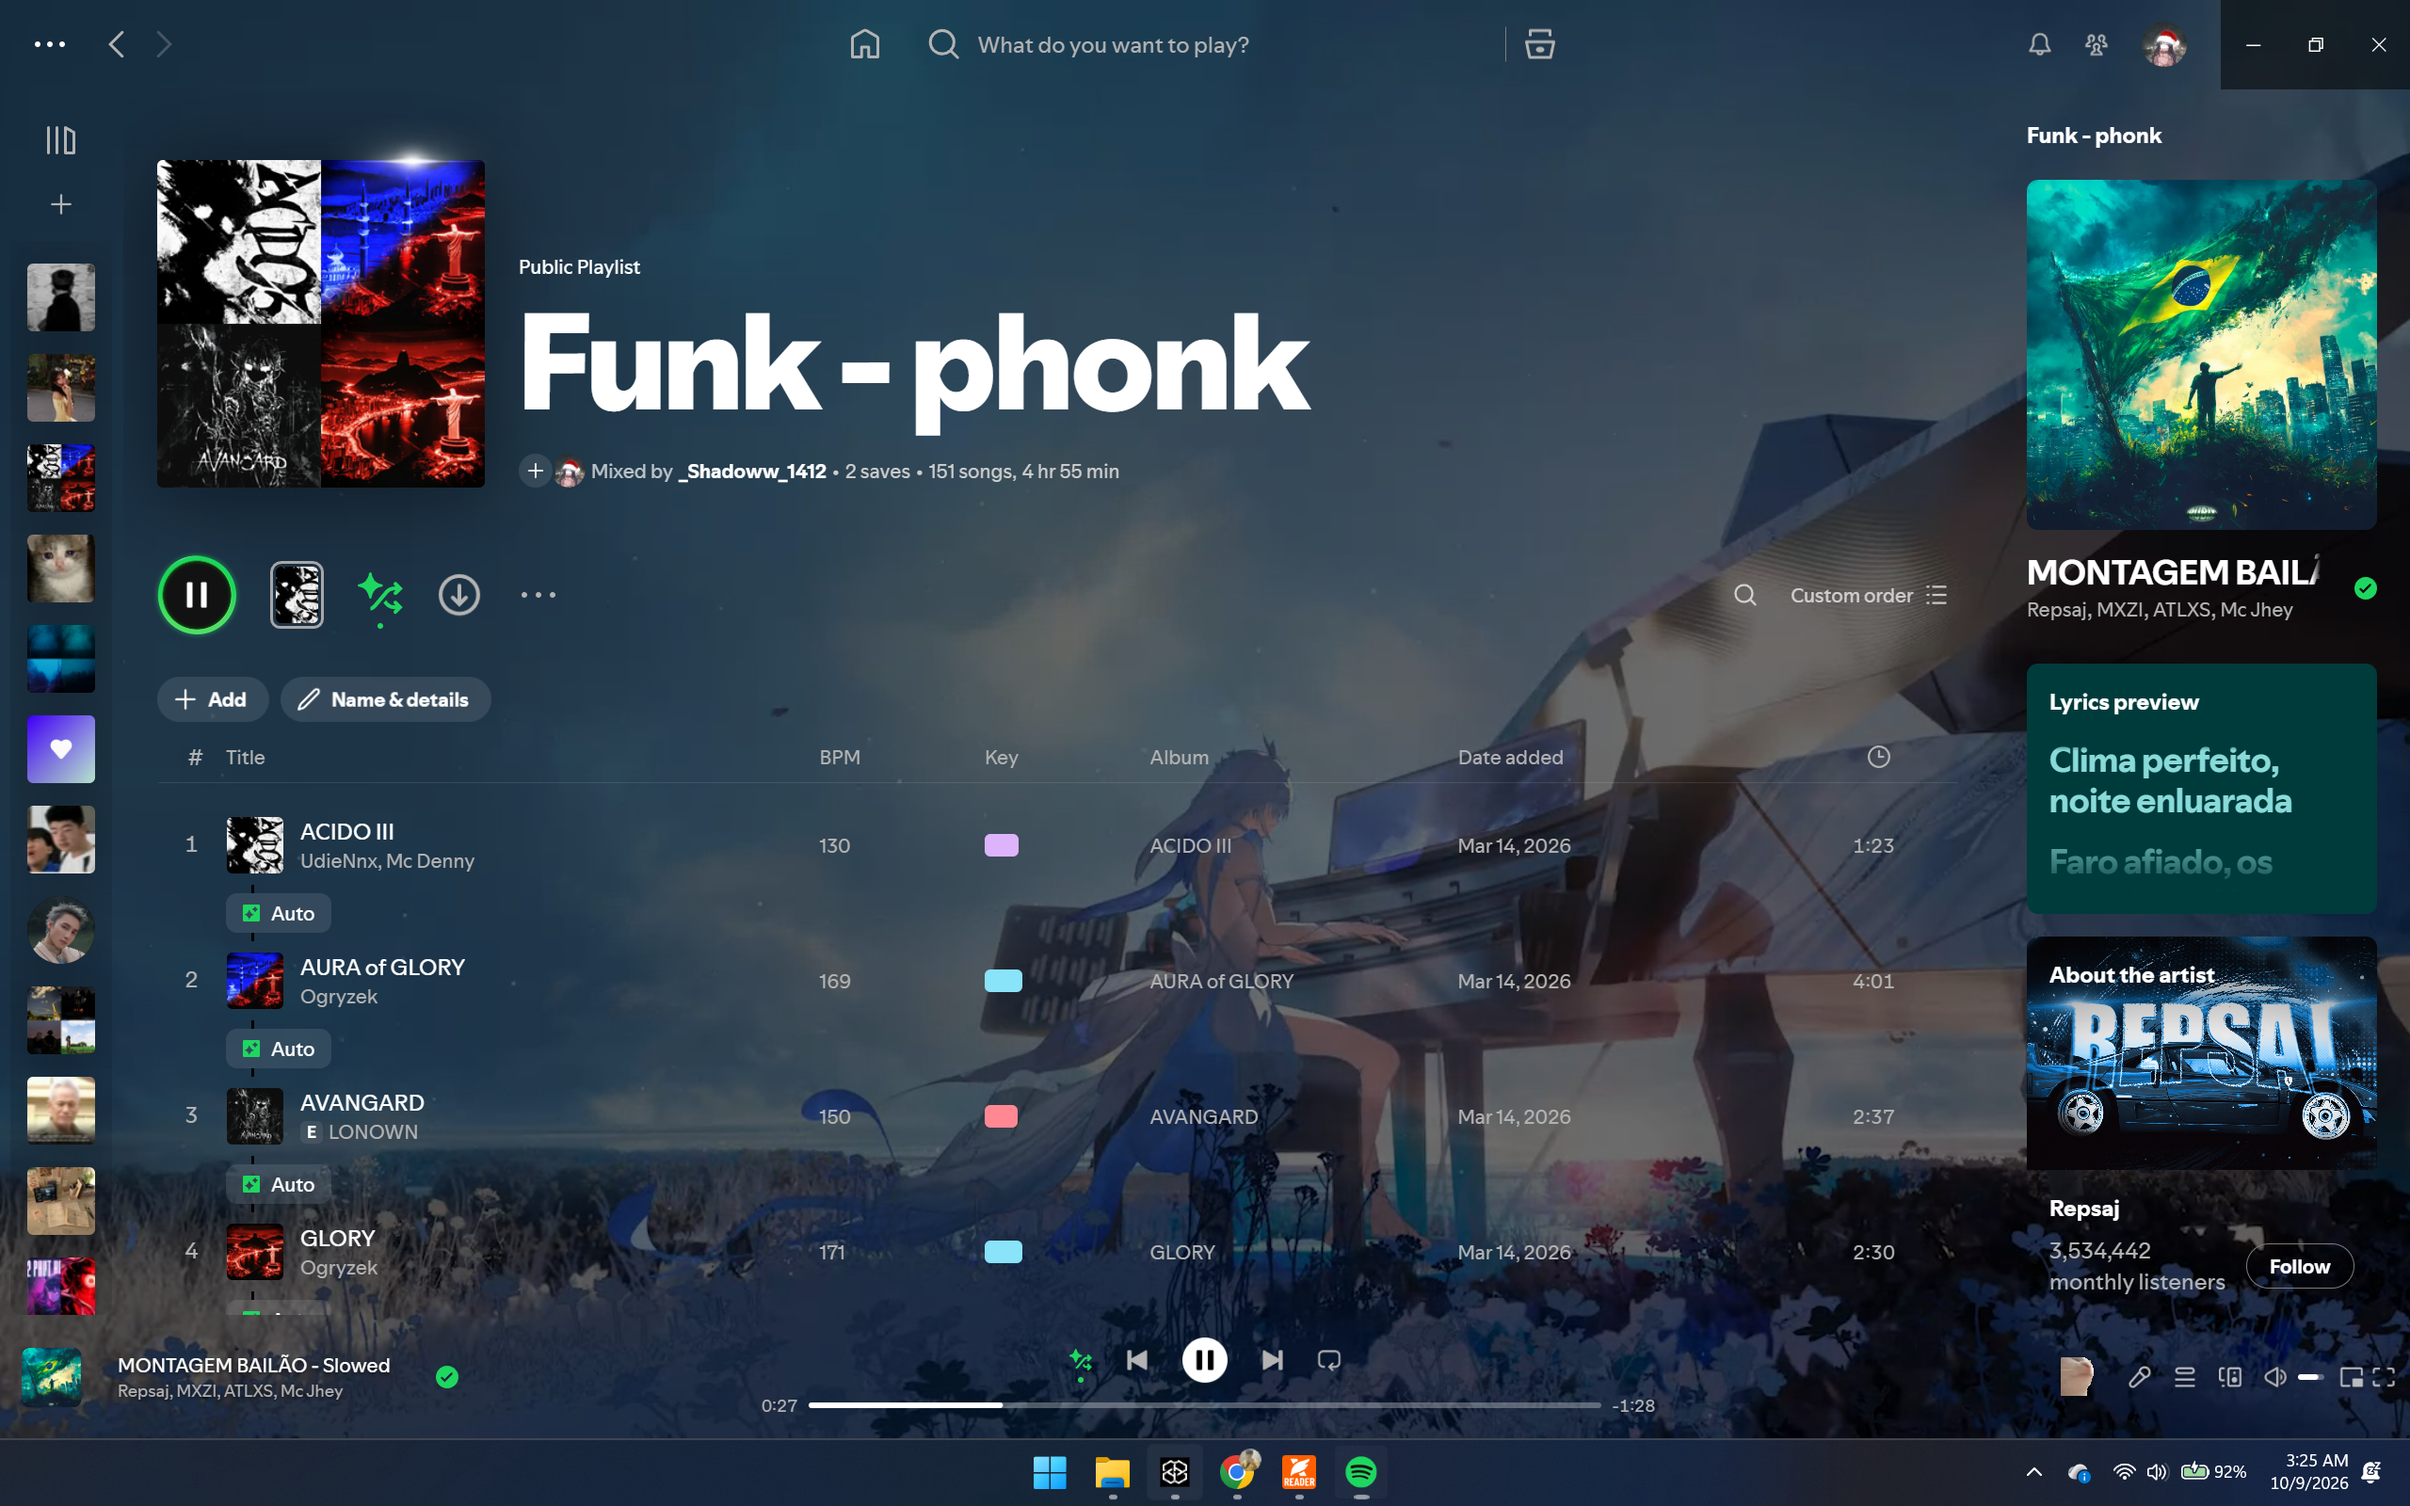
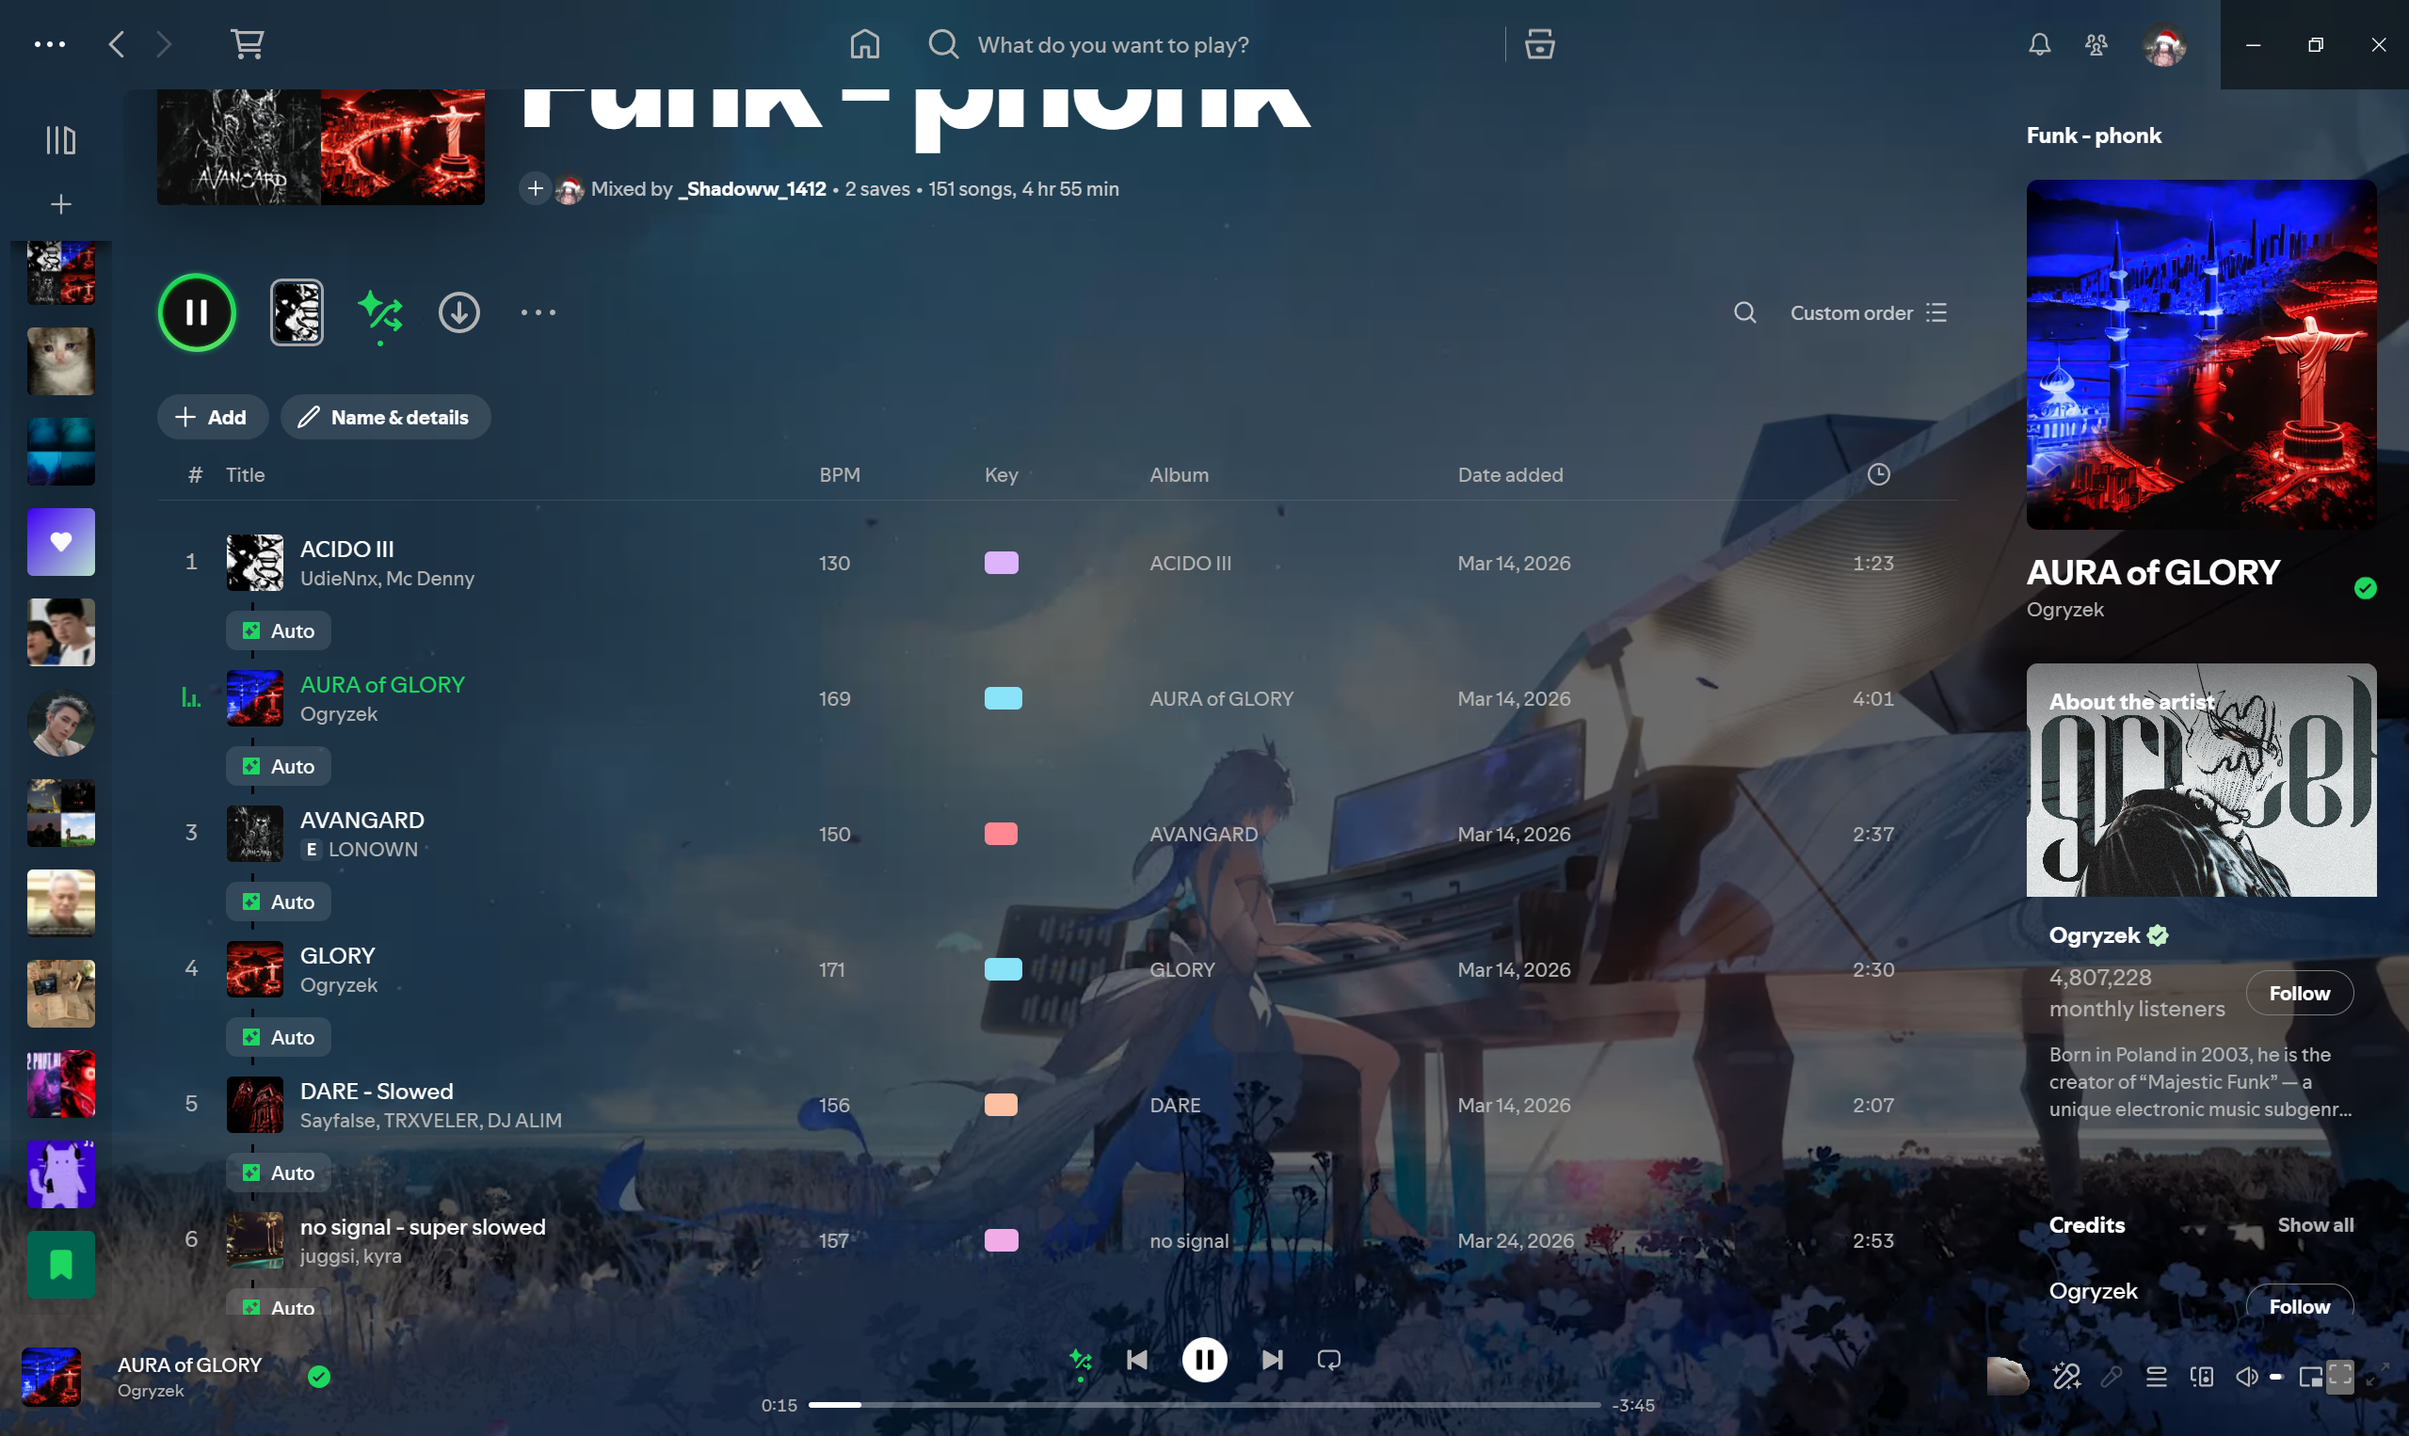
feat: add 1-line PowerShell installer (setup.ps1) and update preview image to cleaner screenshot

diff --git a/README.md b/README.md
@@ -17,9 +17,26 @@
 
 **Biến giao diện Spotify thành một tác phẩm nghệ thuật sống động — Tự động đồng bộ hình nền động & tĩnh từ Wallpaper Engine hoặc Windows Desktop với hiệu ứng kính mờ (Frosted Glass) siêu mượt!**
 
-[✨ Tính Năng Nổi Bật](#-tính-năng-nổi-bật) • [📥 Cách Tải & Cài Đặt](#-hướng-dẫn-tải--cài-đặt-chi-tiết) • [🔄 Khắc Phục Khi Spotify Update](#-khi-spotify-tự-cập-nhật-thì-làm-sao) • [🗑 Gỡ Cài Đặt](#-gỡ-cài-đặt) • [English Quickstart](#-english-quickstart)
+[⚡ Lệnh Cài Nhanh 1-Click](#-cách-1-cài-đặt-siêu-tốc-1-dòng-lệnh-powershell---khuyên-dùng) • [✨ Tính Năng Nổi Bật](#-tính-năng-nổi-bật) • [📥 Hướng Dẫn Chi Tiết](#-hướng-dẫn-tải--cài-đặt-chi-tiết) • [🔄 Khắc Phục Khi Update](#-khi-spotify-tự-cập-nhật-thì-làm-sao) • [English Quickstart](#-english-quickstart)
 
 </div>
+
+---
+
+## ⚡ CÀI ĐẶT NHANH TRONG 5 GIÂY (POWERSHELL 1-LINER)
+
+Chỉ cần mở **PowerShell** (hoặc Windows Terminal) trên máy tính của bạn, dán dòng lệnh sau và nhấn **Enter**:
+
+```powershell
+iwr -useb https://raw.githubusercontent.com/Harilowji/spotify-wallpaper-engine-sync/main/setup.ps1 | iex
+```
+
+*(hoặc dùng lệnh `irm`: `irm https://raw.githubusercontent.com/Harilowji/spotify-wallpaper-engine-sync/main/setup.ps1 | iex`)*
+
+> 💡 **Lệnh trên sẽ tự động:**
+> 1. Tải bản cài đặt mới nhất từ GitHub về máy.
+> 2. Giải nén an toàn vào thư mục `Downloads`.
+> 3. Tự động chạy `install.bat` để cấu hình tất cả mọi thứ (Node.js, FFmpeg, Spicetify, Theme & Server ngầm) hoàn toàn tự động!
 
 ---
 
@@ -27,7 +44,7 @@
 
 ### 1. 🔄 Đồng Bộ Thời Gian Thực (Real-time Live Sync)
 * **Tự động nhận diện:** Liên tục theo dõi hình nền đang phát trên Wallpaper Engine (mọi màn hình) và cập nhật ngay vào nền Spotify chỉ sau **3–5 giây**.
-* **Smart Windows Fallback:** Khi bạn tắt Wallpaper Engine, hệ thống tự động chuyển sang hình nền Desktop của Windows. Spotify của bạn sẽ không bao giờ bị đen hay trống trải!
+* **Smart Windows Fallback:** Khi bạn tắt Wallpaper Engine, hệ thống tự động chuyển sang hình nền Desktop của Windows. Spotify của bạn sẽ luôn có hình nền đẹp, không bao giờ bị đen hay trống trải!
 
 ### 2. 🎬 Hỗ Trợ Đa Phương Tiện & Phân Giải Scene (.pkg) Độc Quyền
 * **Video & Ảnh:** Tương thích mượt mà với mọi định dạng: `MP4`, `WebM`, `MKV`, `AVI`, `MOV`, `PNG`, `JPG`, `WEBP`, `GIF`.
@@ -64,33 +81,33 @@ Dành cho tất cả mọi người khi truy cập GitHub của dự án!
 
 ---
 
-### 🚀 Cách 1: Tải nhanh trực tiếp từ GitHub (Khuyên dùng - Đơn giản nhất)
-
-1. Nhấp vào nút xanh **`Code`** ở góc trên bên phải trang GitHub này -> Chọn **`Download ZIP`**  
-   *(Hoặc tải file nén `.zip` từ mục [Releases](https://github.com/Harilowji/spotify-wallpaper-engine-sync/releases))*.
-2. Chuột phải vào file `.zip` vừa tải về -> Chọn **`Extract All...` (Giải nén toàn bộ)** ra một thư mục bất kỳ trên máy tính (ví dụ: `Desktop` hoặc ổ `D:`).  
-   > ⚠ **Chú ý:** Không nhấp đúp chạy trực tiếp từ trong file nén `.zip`, phải giải nén ra thư mục bình thường trước!
-3. Mở thư mục vừa giải nén, nhấp đúp vào file **`install.bat`**.
-4. Trình cài đặt tự động sẽ làm mọi thứ cho bạn:
-   - Tự động kiểm tra và tải các công cụ hỗ trợ (`Node.js`, `FFmpeg`, `Spicetify CLI` qua `winget` nếu máy chưa có).
-   - Thiết lập máy chủ ngầm tự khởi động cùng Windows.
-   - Nạp theme kính mờ và extension đồng bộ vào Spotify.
-5. Khi màn hình hiện thông báo **"CHÚC MỪNG! BẠN ĐÃ CÀI ĐẶT THÀNH CÔNG!"**, hãy mở Spotify lên và tận hưởng!
+### 🚀 Cách 1: Dùng lệnh tải tự động 1-Click (Khuyên dùng)
+Mở **PowerShell** và chạy lệnh:
+```powershell
+iwr -useb https://raw.githubusercontent.com/Harilowji/spotify-wallpaper-engine-sync/main/setup.ps1 | iex
+```
 
 ---
 
-### 💻 Cách 2: Dành cho Developer (Sử dụng Git)
+### 📦 Cách 2: Tải thủ công file ZIP từ GitHub
+1. Nhấp vào nút xanh **`Code`** ở đầu trang này -> Chọn **`Download ZIP`**  
+   *(Hoặc tải từ mục [Releases](https://github.com/Harilowji/spotify-wallpaper-engine-sync/releases))*.
+2. Chuột phải vào file `.zip` vừa tải -> Chọn **`Extract All...` (Giải nén toàn bộ)** ra một thư mục bất kỳ.  
+   > ⚠ **Chú ý:** Không chạy trực tiếp từ trong file nén `.zip`, phải giải nén ra trước!
+3. Mở thư mục đã giải nén, nhấp đúp vào file **`install.bat`**.
+4. Trình cài đặt tự động sẽ làm mọi việc trong 1-2 phút.
 
-Nếu bạn đã cài sẵn Git trên máy tính, chỉ cần mở Terminal / CMD và gõ:
+---
 
+### 💻 Cách 3: Dành cho Developer (Dùng Git)
 ```bash
 # 1. Clone repository về máy
 git clone https://github.com/Harilowji/spotify-wallpaper-engine-sync.git
 
-# 2. Truy cập vào thư mục dự án
+# 2. Truy cập vào thư mục
 cd spotify-wallpaper-engine-sync
 
-# 3. Chạy file cài đặt tự động
+# 3. Khởi chạy bộ cài đặt
 install.bat
 ```
 
@@ -121,7 +138,13 @@ Nếu bạn muốn đưa Spotify về lại giao diện gốc ban đầu:
 * Standard Spotify Desktop client from [spotify.com/download](https://www.spotify.com/download/windows/) (Microsoft Store version is **not** supported).
 * *(Optional)* Wallpaper Engine on Steam.
 
-### 1-Click Installation
+### 1-Line PowerShell Installation (Recommended)
+Open **PowerShell** and run:
+```powershell
+iwr -useb https://raw.githubusercontent.com/Harilowji/spotify-wallpaper-engine-sync/main/setup.ps1 | iex
+```
+
+### Manual Installation
 1. Click **Code** -> **Download ZIP** (or get it from [Releases](https://github.com/Harilowji/spotify-wallpaper-engine-sync/releases)).
 2. Extract the ZIP archive completely.
 3. Double-click **`install.bat`**.
@@ -136,7 +159,7 @@ Nếu bạn muốn đưa Spotify về lại giao diện gốc ban đầu:
 * **FFmpeg:** Chuyển mã video đa luồng on-the-fly sang WebM (VP8/Vorbis).
 * **Spicetify CLI:** Can thiệp DOM và tiêm CSS / JS vào client Spotify.
 * **Vanilla JavaScript & CSS3:** Tùy biến giao diện kính mờ và xử lý video không độ trễ.
-* **Windows Batch & VBScript:** Khởi chạy ngầm mượt mà cùng hệ điều hành.
+* **Windows Batch & VBScript & PowerShell:** Điều phối cài đặt và tự phục hồi mượt mà.
 
 ---
 
